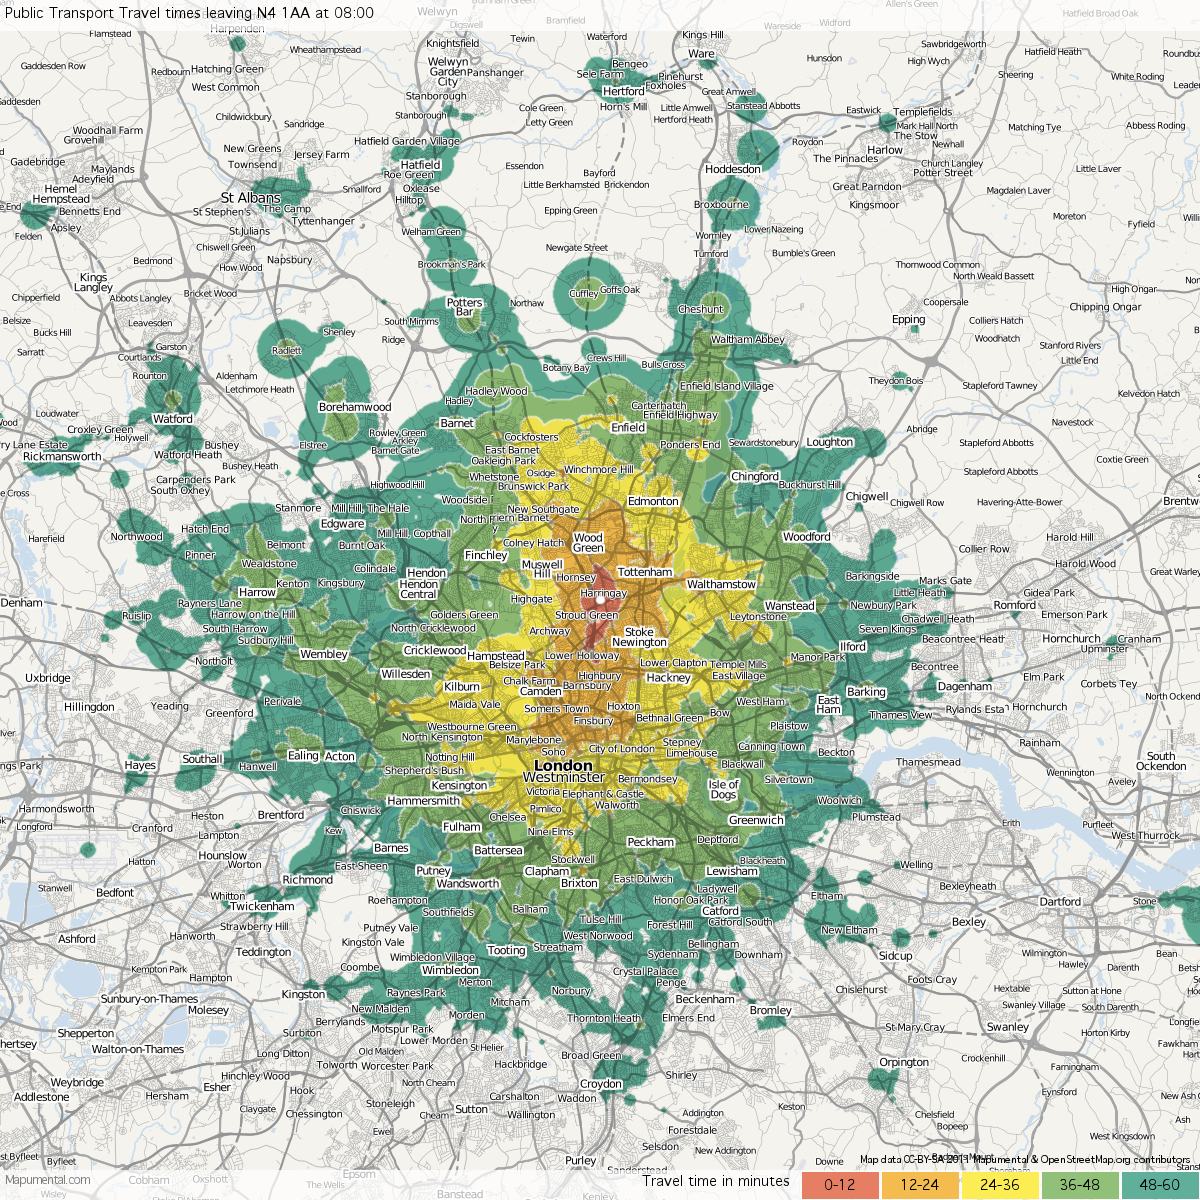
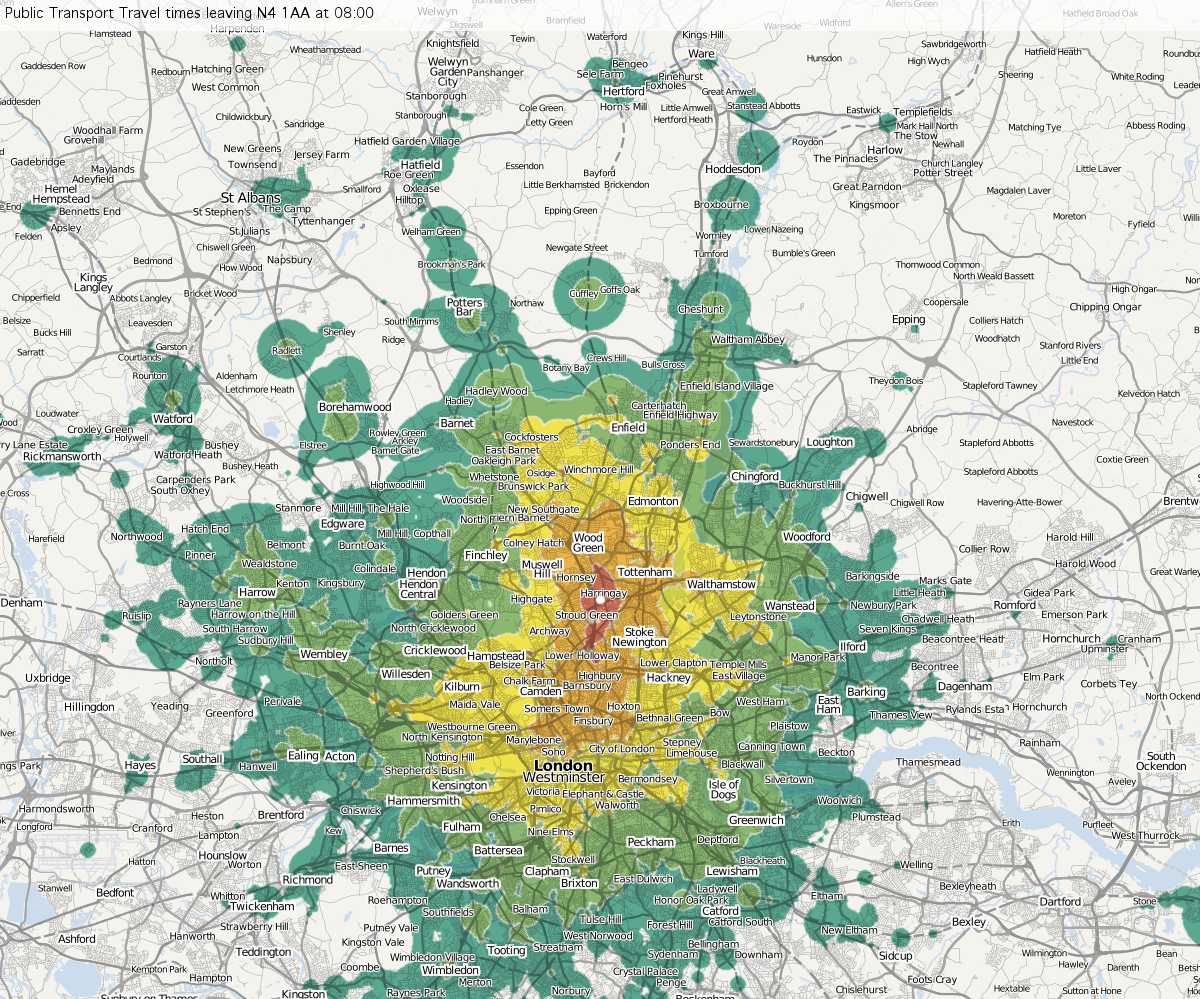
Make travel report fit to screen on tablets

diff --git a/situational/assets/css/_foundation_settings.scss b/situational/assets/css/_foundation_settings.scss
@@ -151,18 +151,18 @@ $font-weight-bold: bold;
 // d. Media Query Ranges
 // - - - - - - - - - - - - - - - - - - - - - - - - -
 
-// $small-breakpoint:  em-calc(640);
-// $medium-breakpoint: em-calc(1024);
+ $small-breakpoint:  em-calc(640);
+ $medium-breakpoint: em-calc(1024);
 // $large-breakpoint:  em-calc(1440);
 // $xlarge-breakpoint: em-calc(1920);
 
 // $small-range:   (0, $small-breakpoint);
-// $medium-range:  ($small-breakpoint  + em-calc(1), $medium-breakpoint);
+ $medium-range:  ($small-breakpoint  + em-calc(1), $medium-breakpoint);
 // $large-range:   ($medium-breakpoint + em-calc(1), $large-breakpoint);
 // $xlarge-range:  ($large-breakpoint  + em-calc(1), $xlarge-breakpoint);
 // $xxlarge-range: ($xlarge-breakpoint + em-calc(1), em-calc(99999999));
 
-// $screen: "only screen";
+ $screen: "only screen";
 
 // $landscape: "#{$screen} and (orientation: landscape)";
 // $portrait: "#{$screen} and (orientation: portrait)";
@@ -171,6 +171,8 @@ $font-weight-bold: bold;
 // $small-only: "#{$screen} and (max-width: #{upper-bound($small-range)})";
 
 // $medium-up: "#{$screen} and (min-width:#{lower-bound($medium-range)})";
+ $medium-down: "#{$screen} and (max-width:#{upper-bound($medium-range)})";
+
 // $medium-only: "#{$screen} and (min-width:#{lower-bound($medium-range)}) and (max-width:#{upper-bound($medium-range)})";
 
 // $large-up: "#{$screen} and (min-width:#{lower-bound($large-range)})";

diff --git a/situational/apps/travel_report/templates/travel_report/show.html b/situational/apps/travel_report/templates/travel_report/show.html
@@ -1,6 +1,6 @@
 {% extends "base.html" %}
 
-{% block body_class %}class="has-report"{% endblock body_class %}
+{% block body_class %}class="has-report single-screen"{% endblock body_class %}
 
 {% block content %}
 
@@ -8,8 +8,8 @@
   <div class="columns">
     <article class="report clearfix">
       <header>
-        <h1>Understand where you could travel for work</h1>
-        <p>This report contains information to help you understand travel time and costs when you are looking for work.</p>
+        <h1>Where you could travel for work</h1>
+        <p>Travel times from {{ report.postcode }} on public transport at 8 am</p>
         <aside>
           <div class="columns">
             <a href="{% url 'travel_report:start' %}">&#8592; start again</a>
@@ -18,12 +18,7 @@
       </header>
 
       <section>
-        <div class="columns small-centered">
-          <header>
-            <h3>Travel times from {{ report.postcode }} on public transport</h3>
-          </header>
-          <p><img src="{{ report.travel_times_map.image.url }}"></p>
-        </div>
+        <img src="{{ report.travel_times_map.image.url }}">
       </section>
 
       <footer>

diff --git a/situational/assets/css/_report.scss b/situational/assets/css/_report.scss
@@ -1,3 +1,6 @@
+// Needed here for print styles
+@import '_foundation_settings';
+
 body.has-report {
   @media #{$large-up} {
     background: #333333;
@@ -12,9 +15,9 @@ body.has-report {
 
   > header {
     text-align: center;
-    margin: 10% 5% 5% 5%;
-    @media #{$medium-up} {
-      margin-top: 5%;
+    margin: 5% 0 0 0;
+    @media #{$large-up} {
+      margin: 5% 5% 5% 5%;
     }
     p {
       color: #6F6F6F;
@@ -55,3 +58,13 @@ body.has-report {
   }
 }
 
+body.single-screen {
+    @media #{$medium-down} {
+        footer {
+            position:fixed;
+            bottom:0;
+            left:0;
+            right:0;
+        }
+    }
+}

diff --git a/situational/apps/travel_times/constants.py b/situational/apps/travel_times/constants.py
@@ -1,4 +1,4 @@
 MAP_WIDTH = '1200'
-MAP_HEIGHT = '1200'
+MAP_HEIGHT = '1000'
 DEPART_AT = '0800'
 MAX_TRAVEL_TIME = 90  # minutes
